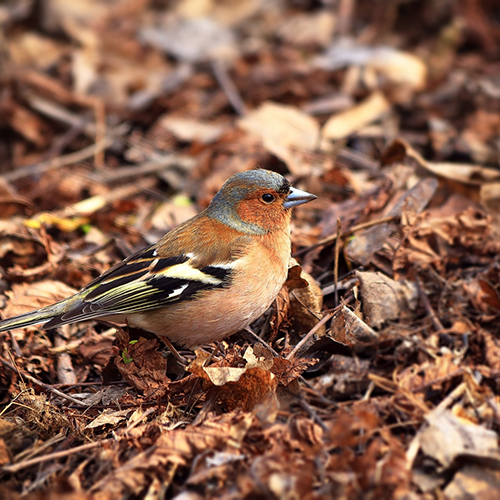
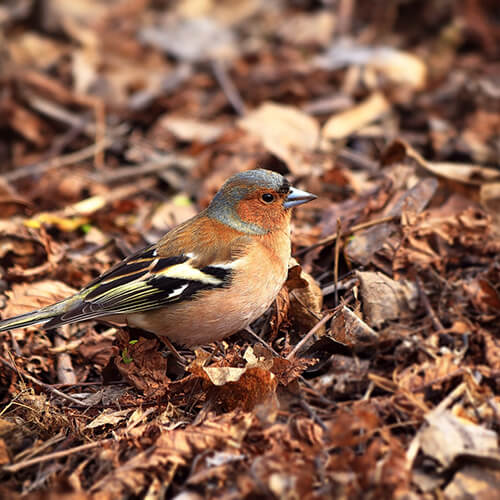
gallery optimization

diff --git a/gallery.html b/gallery.html
@@ -31,15 +31,42 @@
             <div id="top"></div>
             <a href="#bottom">ВНИЗ &darr;</a>
             <div class="images">
-                <img type="image/jpg" src="gallery/1.jpg" alt="">
-                <img type="image/jpg" src="gallery/2.jpg" alt="">
-                <img type="image/jpg" src="gallery/3.jpg" alt="">
-                <img type="image/jpg" src="gallery/4.jpg" alt="">
-                <img type="image/jpg" src="gallery/5.jpg" alt="">
-                <img type="image/jpg" src="gallery/6.jpg" alt="">
-                <img type="image/jpg" src="gallery/7.jpg" alt="">
-                <img type="image/jpg" src="gallery/8.jpg" alt="">
-                <img type="image/jpg" src="gallery/9.jpg" alt="">
+                <picture>
+                    <source srcset="gallery/1.webp" alt="" type="image/webp">
+                    <img src="gallery/1.jpg" alt="" type="image/jpg">
+                </picture>
+                <picture>
+                    <source srcset="gallery/2.webp" alt="" type="image/webp">
+                    <img type="image/jpg" src="gallery/2.jpg" alt="">
+                </picture>
+                <picture>
+                    <source srcset="gallery/3.webp" alt="" type="image/webp">
+                    <img type="image/jpg" src="gallery/3.jpg" alt="">
+                </picture>
+                <picture>
+                    <source srcset="gallery/4.webp" alt="" type="image/webp">
+                    <img type="image/jpg" src="gallery/4.jpg" alt="">
+                </picture>
+                <picture>
+                    <source srcset="gallery/5.webp" alt="" type="image/webp">
+                    <img type="image/jpg" src="gallery/5.jpg" alt="">
+                </picture>
+                <picture>
+                    <source srcset="gallery/6.webp" alt="" type="image/webp">
+                    <img type="image/jpg" src="gallery/6.jpg" alt="">
+                </picture>
+                <picture>
+                    <source srcset="gallery/7.webp" alt="" type="image/webp">
+                    <img type="image/jpg" src="gallery/7.jpg" alt="">
+                </picture>
+                <picture>
+                    <source srcset="gallery/8.webp" alt="" type="image/webp">
+                    <img type="image/jpg" src="gallery/8.jpg" alt="">
+                </picture>
+                <picture>
+                    <source srcset="gallery/9.webp" alt="" type="image/webp">
+                    <img type="image/jpg" src="gallery/9.jpg" alt="">
+                </picture>
             </div>
             <a href="#top">ВВЕРХ &uarr;</a>
             <div id="bottom"></div>
